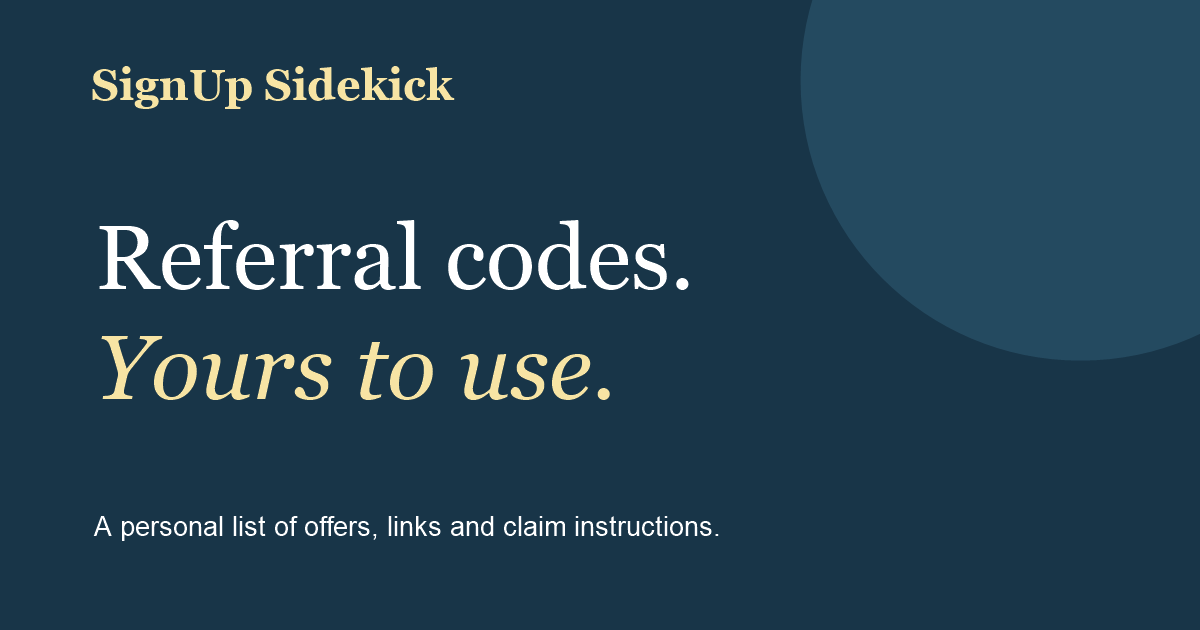
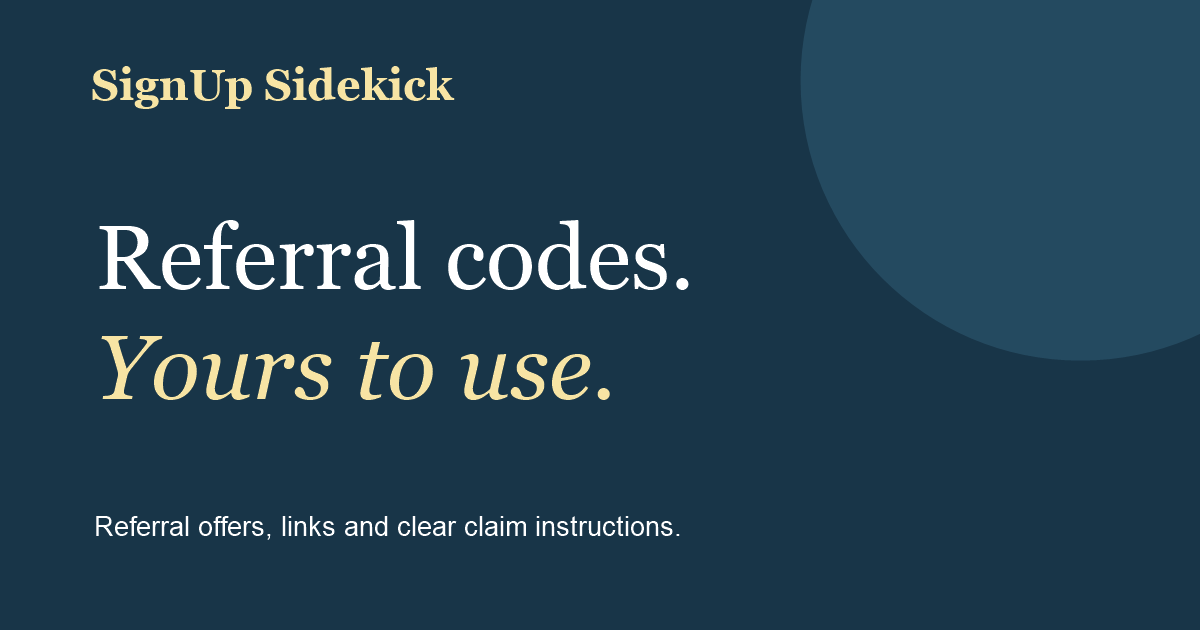
Make referral directory copy and publisher identity generic

Changed region(s): [[0.0617, 0.8143, 0.5858, 0.8746]]

diff --git a/README.md b/README.md
@@ -57,9 +57,9 @@ Builds generate `/qr/<slug>.svg` from each active original invitation URL, with 
 
 ## Before launch
 
-Edit `content/site.json`: choose `name`, set `origin` to the canonical HTTPS domain (no path), set `owner` to your public author name, and set `indexable: true`. `basePath` is empty for a root domain. `SITE_URL`, `BASE_PATH` and `INDEXABLE` environment variables override these values.
+Edit `content/site.json`: choose `name`, set `origin` to the canonical HTTPS domain (no path), set `owner` to the public publisher name and `ownerType` to `Organization`, and set `indexable: true`. `basePath` is empty for a root domain. `SITE_URL`, `BASE_PATH` and `INDEXABLE` environment variables override these values.
 
-The draft uses Brendon as the public author, has no invented domain, and keeps indexing off. Indexable builds require an origin, owner and live offer. Keep temporary preview domains `INDEXABLE=false`.
+The site uses SignUp Sidekick as the public publisher, has no invented domain, and keeps indexing off. Indexable builds require an origin, owner and live offer. Keep temporary preview domains `INDEXABLE=false`.
 
 ## Recommended hosting: Cloudflare
 
